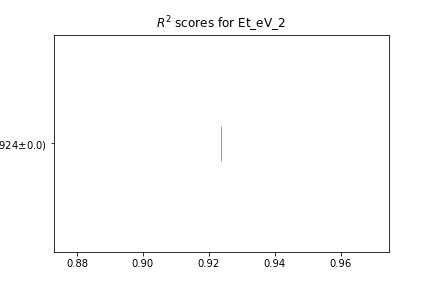
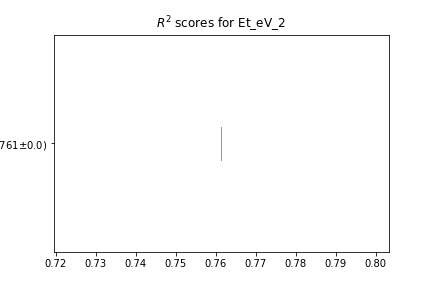
vjh

diff --git a/2_levels_problem/mode2/BO_validation/BO_validation.py b/2_levels_problem/mode2/BO_validation/BO_validation.py
@@ -9,7 +9,7 @@ Try with 80k data: expect the Et1 prediction to be at least accurate: Et1 is pre
 Try with 80k data trial 2: expect the Et1 prediction to be at least accurate: Et1 is predicted to be 0.138 (true value is 0.15). The ML seems to always underestimate it.
 Try with 80k data trial 3, this time change the number of tree from 100 to 200. Et1 is predicted to be 0.143 (true value is 0.15). The ML seems to always underestimate it, but better this time.
 Try with 80k data trial 4, number of tree being 300. Et1=0.14.
-Try with 80k data trial 5,number of tree is 200.
+Try with 800k data.
 '''
 # %%-
 
@@ -59,7 +59,7 @@ from MLobject_tlevel import *
 # load the BO example.
 BO_data = pd.read_csv(r'C:\Users\z5183876\OneDrive - UNSW\Documents\GitHub\SRH_sklearn_playwithdata\2_levels_problem\mode2\BO_validation\BO_ptype\2022-10-25-11-14-51_advanced example - multi_level_L_datasetID_0.csv')
 # load the trianing data.
-training_data = pd.read_csv(r'G:\study\thesis_data_storage\unordered\set10\p\80k\2022_10_25\2022-10-25-13-57-56_advanced example - multi_level_L_datasetID_0.csv')
+training_data = pd.read_csv(r'G:\study\thesis_data_storage\unordered\set10\p\800k\2022_10_28\2022-10-28-03-08-13_advanced example - multi_level_L_datasetID_0.csv')
 
 # extract the lifetime.
 BO_lifetime = BO_data.iloc[:,17:-2]
@@ -86,7 +86,7 @@ y_test = BO_data['Et_eV_1']
 # y_test
 
 # define the model.
-model = RandomForestRegressor(n_estimators=200, verbose=20)
+model = RandomForestRegressor(n_estimators=100, verbose=20)
 # train the model.
 model.fit(training_scaled, y_train)
 # predict
@@ -97,36 +97,42 @@ print(Et1_prediction)
 # %%- Et_eV_1
 
 # %%--Et2
-sys.stdout = open(r"Bo_validation_Et2.txt", "w")
 # load the BO example.
-BO_data = pd.read_csv(r'G:\study\thesis_data_storage\unordered\yan_compare\BO\testset.csv')
+BO_data = pd.read_csv(r'C:\Users\z5183876\OneDrive - UNSW\Documents\GitHub\SRH_sklearn_playwithdata\2_levels_problem\mode2\BO_validation\BO_ptype\2022-10-25-11-14-51_advanced example - multi_level_L_datasetID_0.csv')
 # load the trianing data.
-training_data = pd.read_csv(r'C:\Users\z5183876\OneDrive - UNSW\Documents\GitHub\yoann_code_new\Savedir_example\outputs\2022-10-23-21-19-53_advanced example - multi_level_L_datasetID_0.csv')
+training_data = pd.read_csv(r'G:\study\thesis_data_storage\unordered\set10\p\800k\2022_10_28\2022-10-28-03-08-13_advanced example - multi_level_L_datasetID_0.csv')
 
 # extract the lifetime.
 BO_lifetime = BO_data.iloc[:,17:-2]
 training_lifetime = training_data.iloc[:, 17:-2]
+# BO_lifetime.head()
+# training_lifetime.head()
+
 
 # take log10
-BO_lifetime_log = np.log10(BO_lifetime)
-training_lifetime_log = np.log10(training_lifetime)
+BO_lifetime_log = BO_lifetime.applymap(math.log10)
+training_lifetime_log = training_lifetime.applymap(math.log10)
+
 
 # go through scaler.
 scaler = MinMaxScaler()
 training_scaled = scaler.fit_transform(training_lifetime_log)
 BO_scaled = scaler.transform(BO_lifetime_log)
 
+
 # define the target variable.
 y_train = training_data['Et_eV_2']
 y_test = BO_data['Et_eV_2']
+# y_train
+# y_test
 
 # define the model.
-model = RandomForestRegressor(n_estimators=100, verbose=1, n_jobs=-1)
+model = RandomForestRegressor(n_estimators=100, verbose=20)
 # train the model.
 model.fit(training_scaled, y_train)
 # predict
-print(model.predict(BO_scaled))
-sys.stdout.close()
+Et2_prediction = model.predict(BO_scaled)
+print(Et2_prediction)
 # %%- Et_eV_2
 
 # %%-- Email reminder:
@@ -148,6 +154,7 @@ sys.stdout.close()
 #     msg['to'] = to
 #     msg['from'] = user
 #
+
 #     server = smtplib.SMTP("smtp.gmail.com", 587)
 #     server.starttls()
 #     server.login(user, password)
@@ -161,7 +168,7 @@ def email_reminder():
     # email title
     subject='BO test is done'
     # email body
-    body= 'BO test is done' + ' through the file ' + str(os.getcwd()) + 'Et1 prediction is ' + str(Et1_prediction)
+    body= 'BO test is done' + ' through the file ' + str(os.getcwd()) + 'Et1 prediction is ' + str(111) + 'Et2' + str(Et1_prediction)
     # which email address to sent to:
     to='z5183876@ad.unsw.edu.au'
 

diff --git a/2_levels_problem/mode2/Et_regression/set11/set11.py b/2_levels_problem/mode2/Et_regression/set11/set11.py
@@ -48,7 +48,7 @@ sys.path.append(r'C:\Users\z5183876\OneDrive - UNSW\Documents\GitHub\SRH_sklearn
 sys.path.append(r'C:\Users\z5183876\OneDrive - UNSW\Documents\GitHub\SRH_sklearn_playwithdata\2_levels_problem\mode2\Savedir_example')
 from MLobject_tlevel import *
 # from dynamic_generation_regression import *
-df1 = MyMLdata_2level(r"G:\study\thesis_data_storage\unordered\set10\p\800k\set10_800k_p.csv", 'bandgap1',1)
+df1 = MyMLdata_2level(r"G:\study\thesis_data_storage\unordered\set10\p\800k\2022_10_28\2022-10-28-03-08-13_advanced example - multi_level_L_datasetID_0.csv", 'bandgap1',1)
 df1.data.head()
 # %%-
 
@@ -59,7 +59,7 @@ df1.pre_processor_dividX()
 
 # %%-- Single tasks.
 # ['Et_eV_2', 'logSn_2', 'logSp_2', 'Et_eV_1', 'logSn_1', 'logSp_1']
-for task in ['Et_eV_2', 'logSn_2', 'logSp_2', 'Et_eV_1', 'logSn_1', 'logSp_1']:
+for task in ['logSp_1']:
     print(task)
     # refresh the dataset
     # df1 = MyMLdata_2level(r"G:\study\thesis_data_storage\unordered\set11\p\set11_p_800k.csv", 'bandgap1',5)
@@ -95,7 +95,6 @@ for task in ['Et_eV_1', 'Et_eV_2']:
     print(y)
 sys.stdout.close()
 # %%-
-
 
 # %%-- colour coding:
 for column in ['logSn_2', 'logSp_2', 'Et_eV_2', 'logSn_1', 'logSp_1']:
